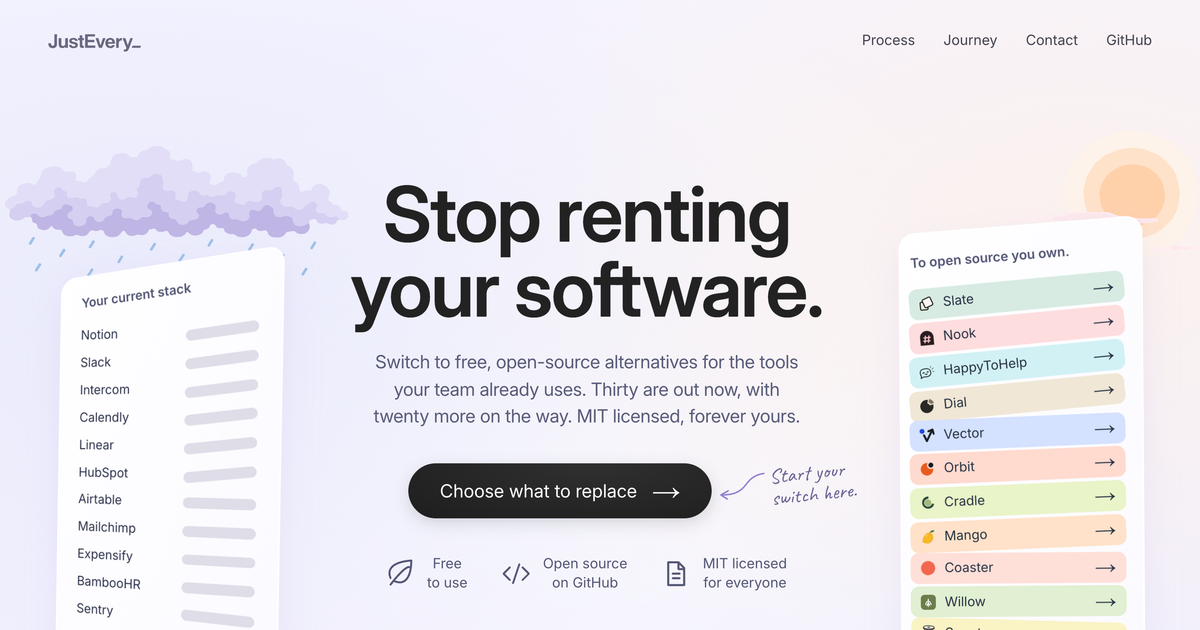
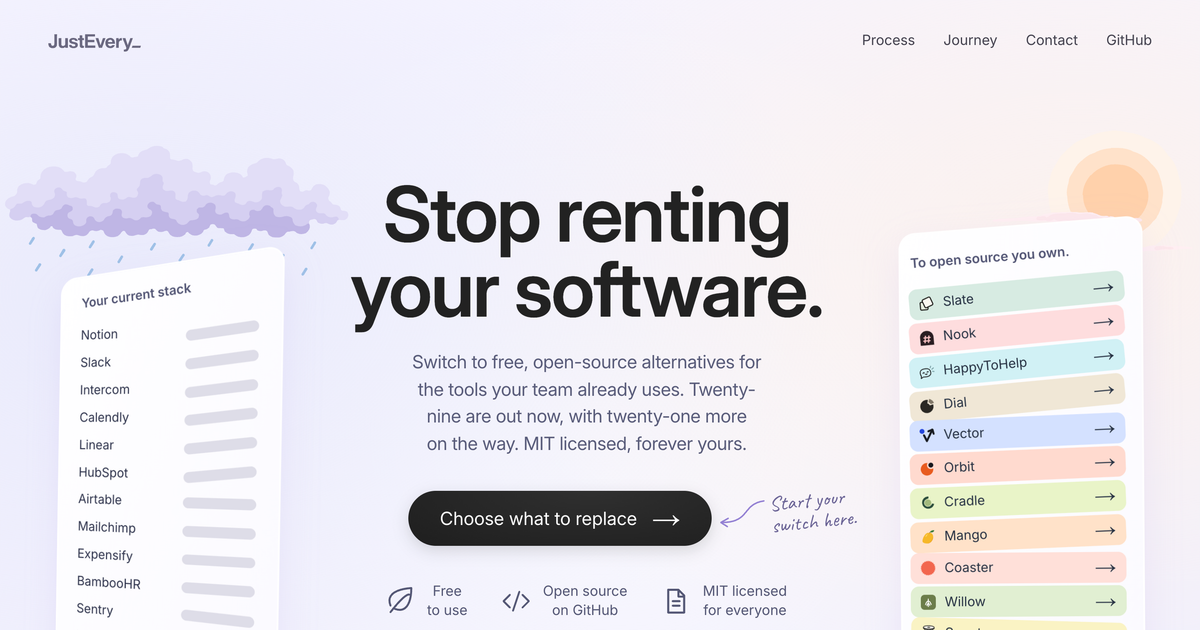
feat(landing): Auth moves to coming soon, 29 out now and 21 on the way
Its project records Auth as planned, so it leaves the released seeds for the
coming-soon list with its lettered mark, pastel and Auth0 line. Counts follow
from the data; the share image is re-rendered.

Changed region(s): [[0.3083, 0.5429, 0.7092, 0.9952], [0.8633, 0.2111, 0.9867, 0.3921]]

diff --git a/src/data/seeds.ts b/src/data/seeds.ts
@@ -352,31 +352,6 @@ export const seeds: Seed[] = [
     homepageShot: null,
   },
   {
-    slug: 'auth',
-    name: 'Auth',
-    category: 'Identity provider',
-    family: 'Sign-in',
-    area: 'engineering',
-    replaces: ['Auth0', 'Okta'],
-    primaryReplace: 'Auth0',
-    line: 'Email-link and passkey sign-in that you run yourself.',
-    headline: null,
-    repo: 'https://github.com/just-every/run-auth',
-    homepage: null,
-    accent: '#356c60',
-    ink: '#1b2724',
-    paper: '#f4f6f5',
-    // Its #356c60 is still the Base default, so a pastel of its own (hue 270).
-    pastel: '#c6d5fe',
-    markOnPastel: 'colour',
-    mark: `${dir('auth')}/mark-lettered.svg`,
-    markPlaceholder: true,
-    markLight: null,
-    markInk: null,
-    reel: null,
-    homepageShot: null,
-  },
-  {
     slug: 'beam',
     name: 'Beam',
     category: 'Staff training records',

diff --git a/src/server/match/limits.ts b/src/server/match/limits.ts
@@ -31,7 +31,6 @@ export const seedLimits: Readonly<Record<string, string>> = {
     'Paging is off: it never calls, texts or pages anyone, and it runs beside your existing pager. Escalation policies are configuration you can read, not live timers.',
   spool:
     'It handles errors only (other Sentry telemetry is counted and discarded), and it never pages anyone.',
-  auth: 'It signs people in to your own apps with email links and passkeys over OpenID Connect; it does not synchronise roles or provision people with SCIM.',
   chest:
     'It does not edit office documents or preview every file type, share anonymously, sync devices, or apply statutory retention and automatic destruction.',
   easel:

diff --git a/src/data/upcoming.ts b/src/data/upcoming.ts
@@ -39,6 +39,19 @@ const repo = (slug: string) => `https://github.com/just-every/run-${slug}`;
 
 export const upcoming: UpcomingSeed[] = [
   {
+    slug: 'auth',
+    name: 'Auth',
+    category: 'Identity provider',
+    replaces: ['Auth0', 'Okta'],
+    primaryReplace: 'Auth0',
+    line: 'Email-link and passkey sign-in that you run yourself.',
+    repo: repo('auth'),
+    // Its #356c60 is still the Base default, so a pastel of its own (hue 270).
+    pastel: '#c6d5fe',
+    mark: lettered('auth'),
+    markPlaceholder: true,
+  },
+  {
     slug: 'balm',
     name: 'Balm',
     category: 'Clinic management',
